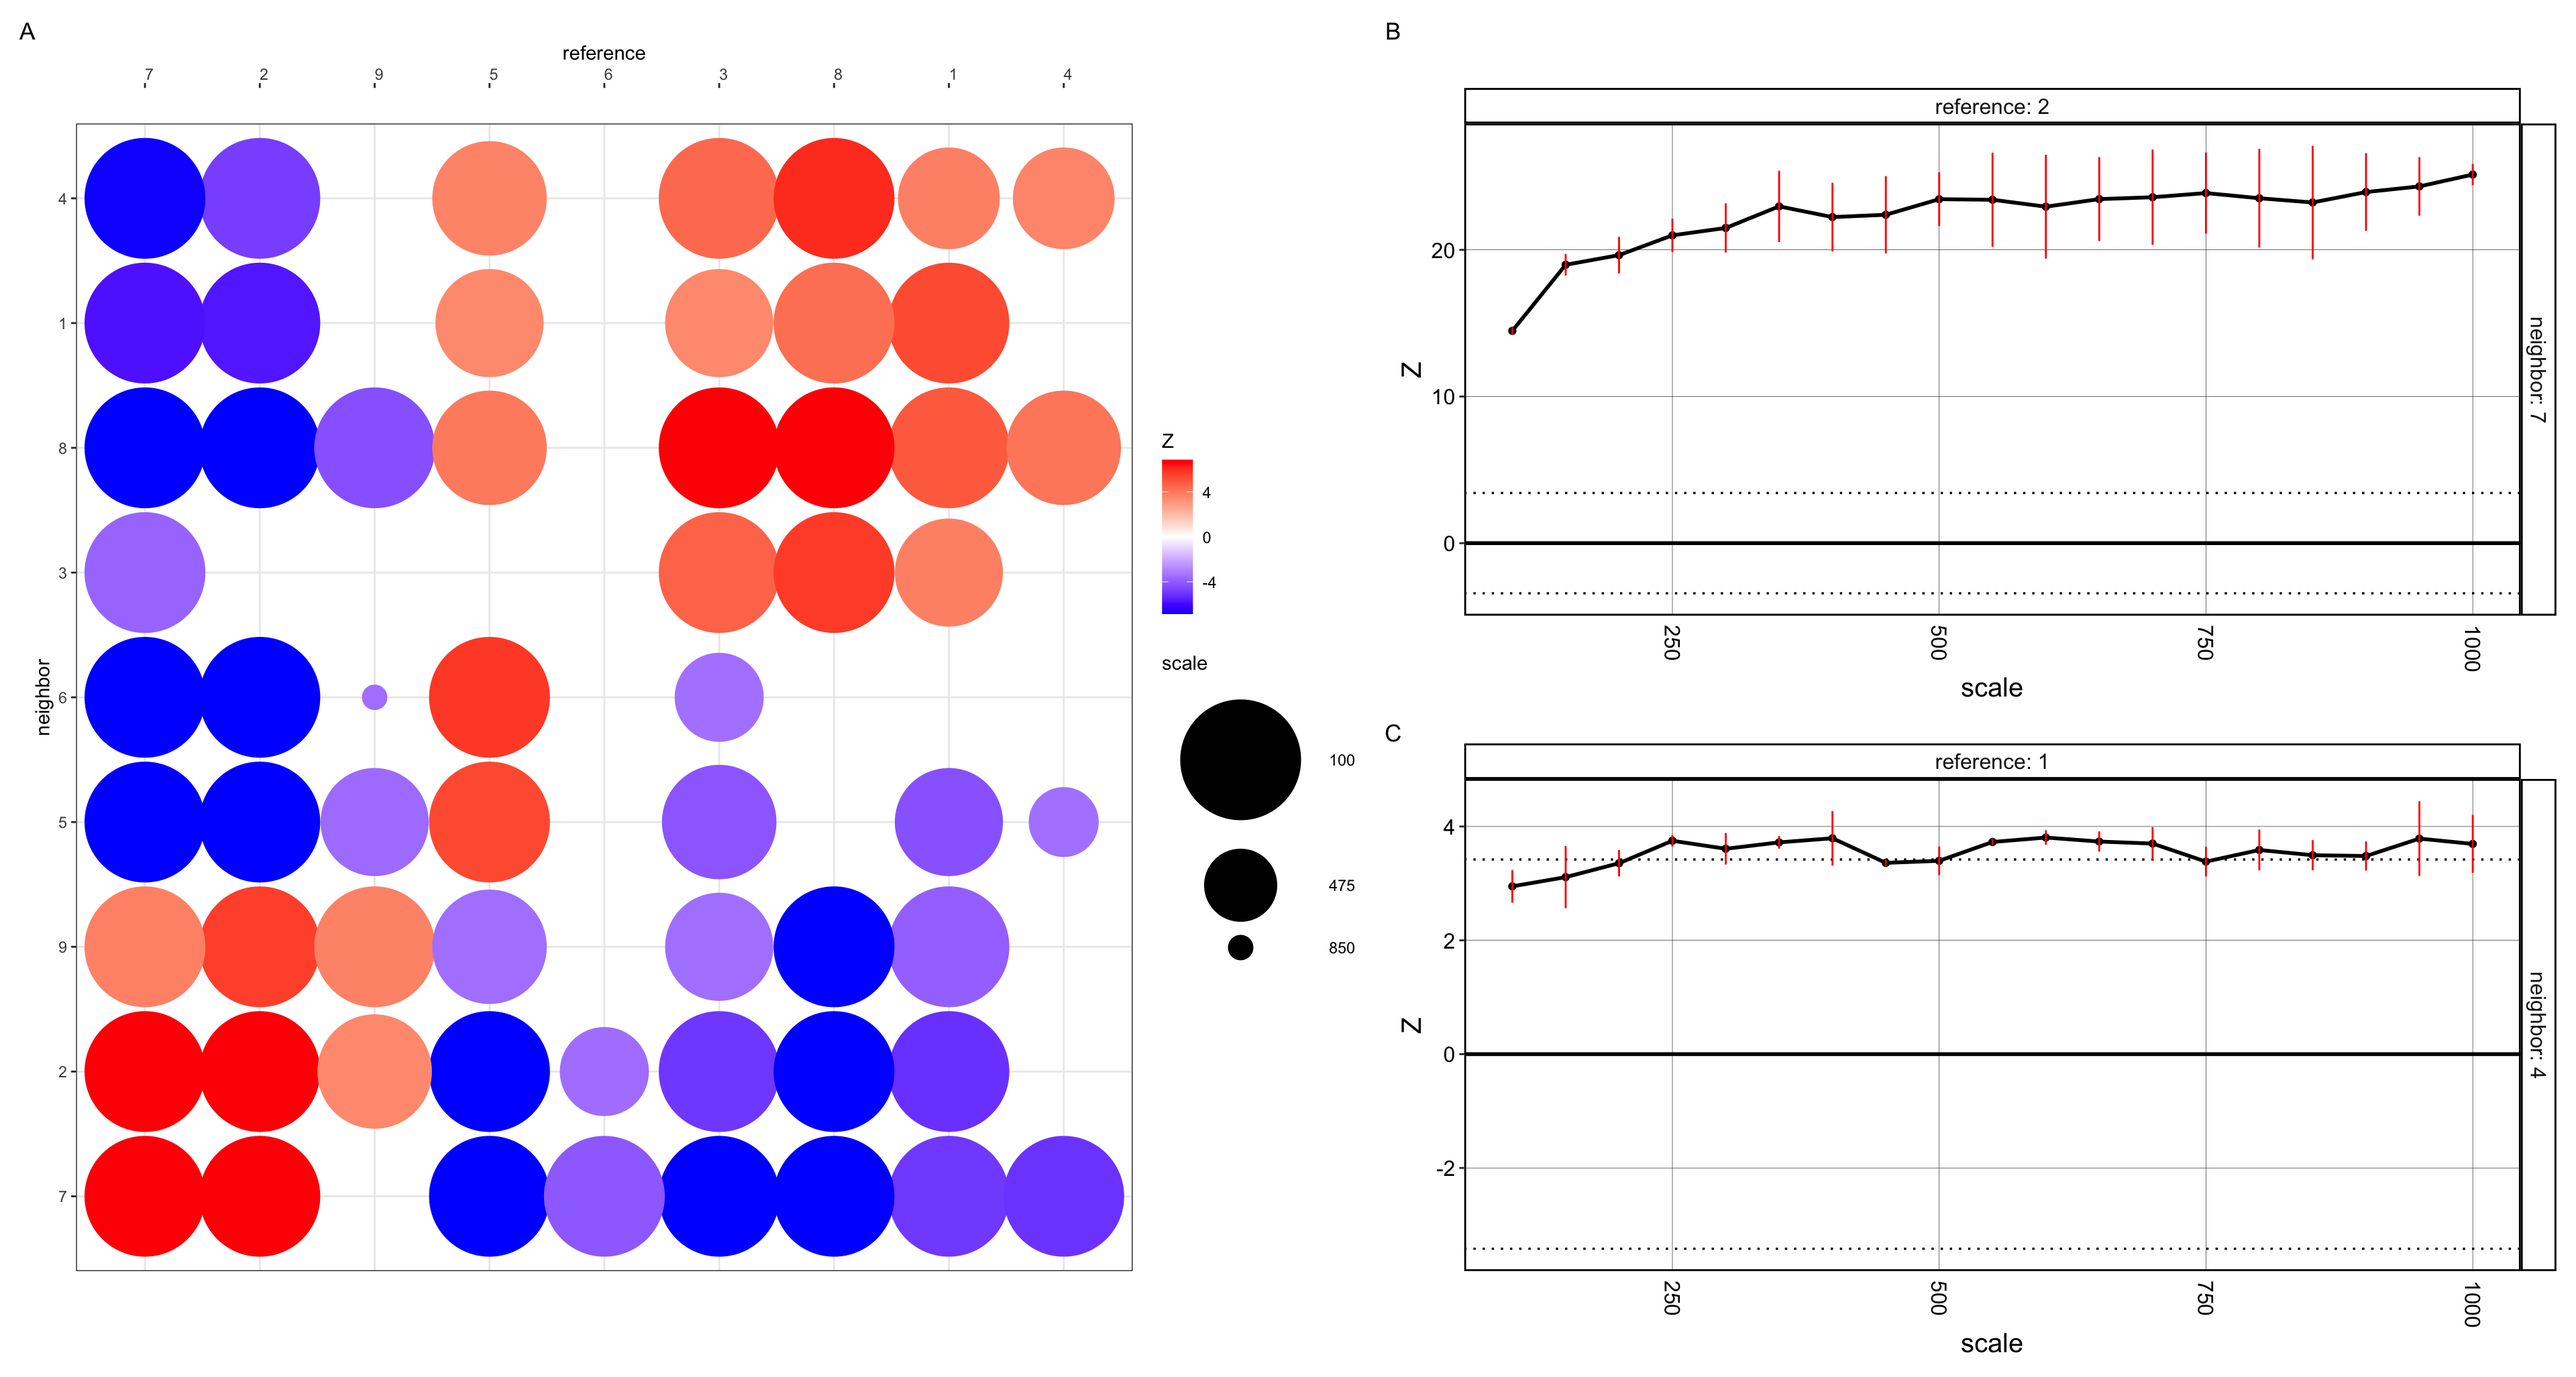
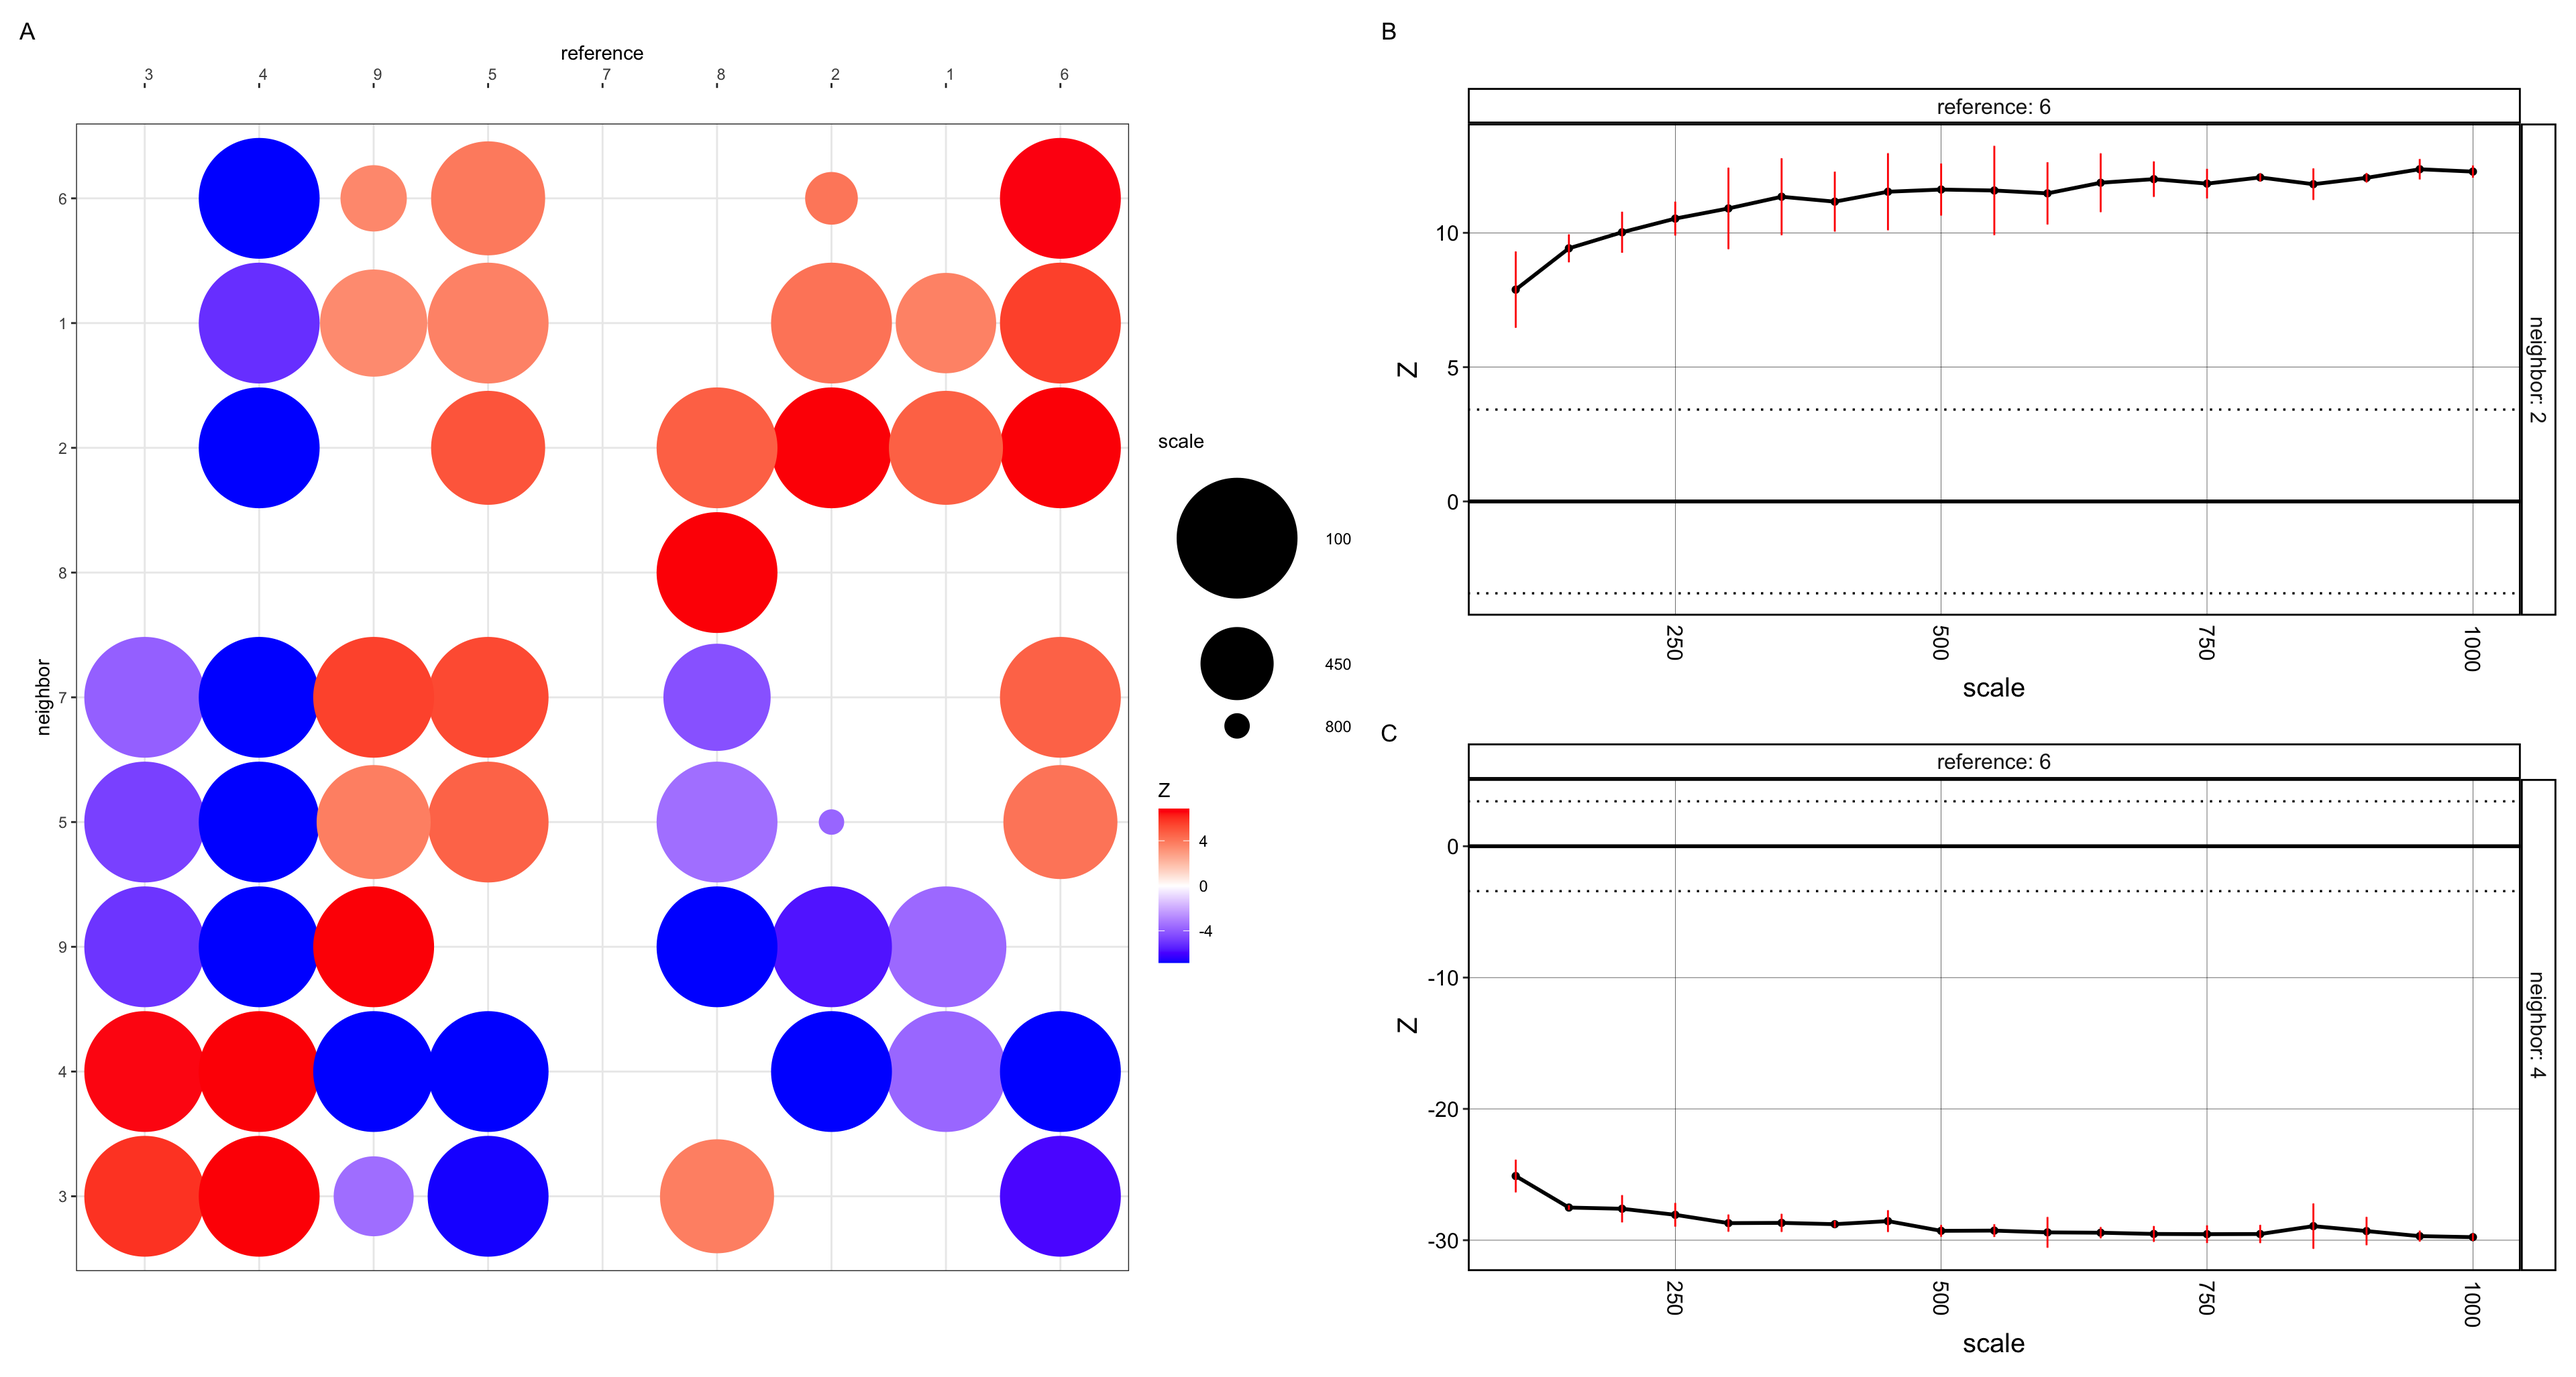
update EC2(CRAWDAD)

diff --git a/_posts/2024-03-06-nsoley1.md b/_posts/2024-03-06-nsoley1.md
@@ -11,7 +11,7 @@ featured: false
 ### Apply SEraster, STalign, or CRAWDAD to a spatial omics dataset from the class
 I applied CRAWDAD to the pikachu dataset. After normalizing the dataset, I performed Kmeans clustering using the optimal number of K=9, found using total withiness curve. With an assumption that each cluster served as a cell types I performed the implementation of CRAWDAD.
 
-The plots show summary visualization of CRAWDAD’s multi-scale cell type spatial relationship analysis of the pikachu data. The size of the dot represents the scale in which a neighbor cell-type first reaches a significant spatial relationship with respect to a reference cell-type. The color of the dot is the z-score at such scale (enriched or depleted) (plot A). I also plotted the multi-scale spatial relationship trend plots for reference cell-type and neighbor cell-type. The horizontal dotted lines represent the z-score significance threshold corrected for multiple testing . If a neighbor cell type has a trend that crosses the positive z-score threshold at a certain scale, then this neighbor type is deemed to be significantly enriched at that scale given the reference cell type. If the trend crosses the negative z-score threshold, then the neighbor cell type is deemed to be significantly depleted at that scale given the reference cell type. Hence Cell type 7, given cell type 2 is deemed to be significantly enriched at all scales (plot B). Whereas cell type 4 is deemed to be significantly enriched after approximately 200, given the reference cell type 1 (plot C).
+The plots show summary visualization of CRAWDAD’s multi-scale cell type spatial relationship analysis of the pikachu data. The size of the dot represents the scale in which a neighbor cell-type first reaches a significant spatial relationship with respect to a reference cell-type. The color of the dot is the z-score at such scale (enriched or depleted) (plot A). I also plotted the multi-scale spatial relationship trend plots for reference cell-type and neighbor cell-type. The horizontal dotted lines represent the z-score significance threshold corrected for multiple testing . If a neighbor cell type has a trend that crosses the positive z-score threshold at a certain scale, then this neighbor type is deemed to be significantly enriched at that scale given the reference cell type. If the trend crosses the negative z-score threshold, then the neighbor cell type is deemed to be significantly depleted at that scale given the reference cell type. Hence Cell type 2, given cell type 6 is deemed to be significantly enriched at all scales (plot B). Whereas cell type 4 is deemed to be significantly depleted, given the reference cell type 6 (plot C).
 
 ```{r}
 require(remotes)
@@ -86,12 +86,12 @@ p1<- vizColocDotplot(dat, reorder = TRUE, zsig.thresh = zsig, zscore.limit = zsi
         axis.text.x = element_text(angle = 0, h = 0))
 p1
 dat_filter <- dat %>% 
-  filter(reference == '2') %>% 
-  filter(neighbor == '7')
+  filter(reference == '6') %>% 
+  filter(neighbor == '2')
 p2<-vizTrends(dat_filter, lines = T, withPerms = T, sig.thresh = zsig)
 
 dat_filter <- dat %>% 
-  filter(reference == '1') %>% 
+  filter(reference == '6') %>% 
   filter(neighbor == '4')
 p3<-vizTrends(dat_filter, lines = T, withPerms = T, sig.thresh = zsig)
 
